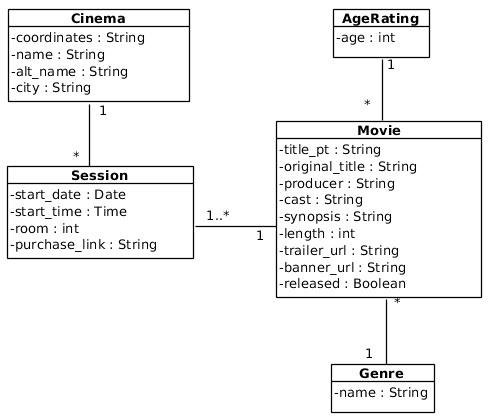
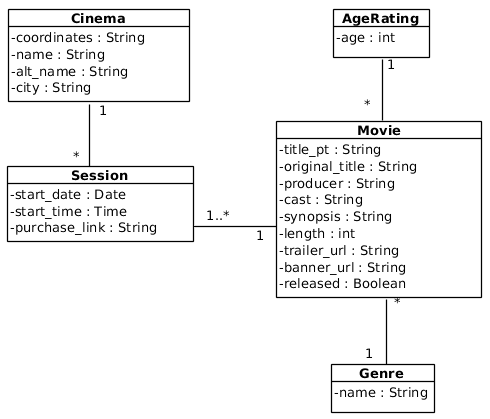
Upgrade on API documentation on README. Database ER diagrams updated.

Changed region(s): [[0.0, 0.5274, 0.398, 0.6205]]

diff --git a/scrapper/views.py b/scrapper/views.py
@@ -32,7 +32,7 @@ def get_movies_by_cinema(request):
 
 
 def get_sessions_by_duration(request):
-    """ Search for sessions for movies under a certain duration
+    """ Search for sessions of movies under a certain duration
     """
     duration = request.GET.get('duration', '')
     if not duration:
@@ -106,7 +106,7 @@ def get_sessions_by_date(request):
 
 
 def search_movies(request):
-    """ Search for movies based on genre, producer, cast, synopsis, age restriction
+    """ Search for movies based on genre, producer, cast, synopsis and age restriction
     """
     genre = request.GET.get('genre', '')
     producer = request.GET.get('producer', '')

diff --git a/README.md b/README.md
@@ -42,35 +42,79 @@ The API provided by this service must allow:
 
 #### API
 
+* Search for movies in cinema
+
 ```http
 GET /movies/by_cinema?search_term=<>&lat=<>&lon=<>
 ```
 
 | Parameter | Type | Description |
 | :--- | :--- | :--- |
-| `search_term` | `string` | **Optional**. Cinema query. |
-| `lat` and `lon` | `float` | **Optional**. User location. |
+| `search_term` | `string` | **Optional***. Cinema query. |
+| `lat` and `lon` | `float` | **Optional***. User location. |
+
+------
+<!---------------------------------------------------->
+
+* Search for movies based on genre, producer, cast, synopsis and age restriction
 
 ```http
-GET /movies/search
+GET /movies/search?genre=<>&cast=<>&producer=<>&synopsis=<>&age=<>
 ```
+
+| Parameter | Type | Description |
+| :--- | :--- | :--- |
+| `genre` | `string` | **Optional**. Movie genre. |
+| `cast` | `string` | **Optional**. Actors names, comma separated. |
+| `producer` | `string` | **Optional**. Producer name. |
+| `synopsis` | `string` | **Optional**. Words to search on the movie synopsis, comma separated. |
+| `age` | `int` | **Optional** Maximum age restriction. |
+
+**Note**: All parameters are optional but at least one of them needs to be provided.
+
+------
+<!---------------------------------------------------->
+
+* Search for upcoming movies
 
 ```http
 GET /movies/releases
 ```
 
-```http
-GET /movies/details
-```
+------
+<!---------------------------------------------------->
+
+* Get details of movie
 
 ```http
-GET /sessions/by_duration?search_term=<>&lat=<>&lon=<>
+GET /movies/details?movie=<>
 ```
 
 | Parameter | Type | Description |
 | :--- | :--- | :--- |
-| `search_term` | `string` | **Optional**. Cinema query. |
-| `lat` and `lon` | `float` | **Optional**. User location. |
+| `movie` | `string` | **Required**. Name of the movie. |
+
+------
+<!---------------------------------------------------->
+
+* Search for sessions of movies under a certain duration
+
+```http
+GET /sessions/by_duration?search_term=<>&lat=<>&lon=<>&duration=<>&date=<>&time=<>
+```
+
+| Parameter | Type | Description |
+| :--- | :--- | :--- |
+| `search_term` | `string` | **Optional***. Cinema query. |
+| `lat` and `lon` | `float` | **Optional***. User location. |
+| `duration` | `int` | **Required**. Maximum value of duration (in minutes). |
+| `date` | `Year-Month-Day` | **Optional**. Date. |
+| `time` | `Hours:Minutes:Seconds` | **Optional** Time. |
+
+------
+<!---------------------------------------------------->
+
+* Search for the next sessions
 
 ```http
 GET /sessions/next_sessions?search_term=<>&lat=<>&lon=<>
@@ -78,23 +122,41 @@ GET /sessions/next_sessions?search_term=<>&lat=<>&lon=<>
 
 | Parameter | Type | Description |
 | :--- | :--- | :--- |
-| `search_term` | `string` | **Optional**. Cinema query. |
-| `lat` and `lon` | `float` | **Optional**. User location. |
+| `search_term` | `string` | **Optional***. Cinema query. |
+| `lat` and `lon` | `float` | **Optional***. User location. |
+
+------
+<!---------------------------------------------------->
+
+* Search sessions for a given movie
 
 ```http
-GET /sessions/by_movie?search_term=<>&lat=<>&lon=<>
+GET /sessions/by_movie?search_term=<>&lat=<>&lon=<>&movie=<>&date=<>&time=<>
 ```
 
 | Parameter | Type | Description |
 | :--- | :--- | :--- |
-| `search_term` | `string` | **Optional**. Cinema query. |
-| `lat` and `lon` | `float` | **Optional**. User location. |
+| `search_term` | `string` | **Optional***. Cinema query. |
+| `lat` and `lon` | `float` | **Optional***. User location. |
+| `movie` | `string` | **Required**. Name of the movie. |
+| `date` | `Year-Month-Day` | **Optional**. Date. |
+| `time` | `Hours:Minutes:Seconds` | **Optional** Time. |
+
+------
+<!---------------------------------------------------->
+
+* Search for sessions by date
 
 ```http
-GET /sessions/by_date?search_term=<>&lat=<>&lon=<>
+GET /sessions/by_date?search_term=<>&lat=<>&lon=<>&date=<>&time=<>
 ```
 
 | Parameter | Type | Description |
 | :--- | :--- | :--- |
-| `search_term` | `string` | **Optional**. Cinema query. |
-| `lat` and `lon` | `float` | **Optional**. User location. |
+| `search_term` | `string` | **Optional***. Cinema query. |
+| `lat` and `lon` | `float` | **Optional***. User location. |
+| `date` | `Year-Month-Day` | **Optional**. Date. |
+| `time` | `Hours:Minutes:Seconds` | **Optional**. Time. |
+
+------
+***Note**: The methods related to sessions require `search_term` or in alternative `lat` and `lon`, so that the desired or close cinemas can be obtained.
